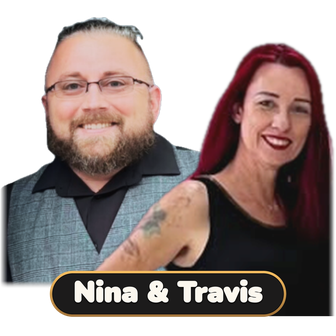
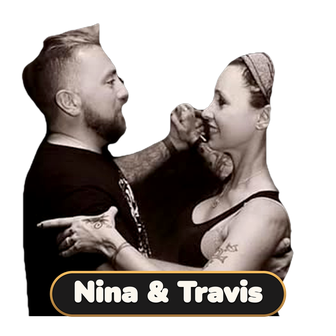
Nina & Travis badge: real couple photo of the two of them together
Replace the two-photo composite with one real photo of Nina and Travis Outlaw
dancing WCS together (studio About Us page, under 'Travis Outlaw'; same file on
Travis's author site). Same 336x336 photo-badge pipeline as Todd & Jamie
(rembg cut-out, 1254 canvas, gold-rim Nunito pill); card:'photo', people:2
(label 'Organizers') unchanged. Cache-buster a59ecadd, stamps re-run.
Sources in gulfcoast/assets/organizer-badges/SOURCES.md.

diff --git a/gulfcoast/index.html b/gulfcoast/index.html
@@ -70,7 +70,7 @@
 <dialog id="simple-lightbox" role="dialog" aria-modal="true" aria-label="Flyer"><button class="lb-close" type="button" aria-label="Close flyer">×</button><img alt=""><div class="lb-bar"><a class="lb-file" target="_blank" rel="noopener noreferrer">Open image file</a><button class="lb-nav" type="button" data-step="-1" aria-label="Previous page">◀</button><span class="lb-count"></span><button class="lb-nav" type="button" data-step="1" aria-label="Next page">▶</button></div></dialog>
 <noscript><p class="noscript">Enable JavaScript for event search and animation, or <a href="https://danceeventviewer.net/dance-event-viewer/">open Dance Event Viewer</a>.</p></noscript>
 <script src="../dance-event-viewer/js/supabase-config.js?v=0254dbd2"></script>
-<script type="module" src="simple-flow.mjs?v=43f47f16"></script>
+<script type="module" src="simple-flow.mjs?v=a3aa4645"></script>
 <script type="module" src="app.js?v=a7e83b4f"></script>
 <script defer src="https://cdn.jsdelivr.net/npm/@supabase/supabase-js@2.112.2/dist/umd/supabase.min.js" integrity="sha384-B2duOBIryCXbX4eDE4BdJwtNkQMRQde3o6IsjfPW28E6aH1CYE96hHeZRG3zY56O" crossorigin="anonymous"></script>
 <script defer src="../dance-event-viewer/js/auth.js?v=e70a7d71"></script>

diff --git a/gulfcoast/assets/organizer-badges/SOURCES.md b/gulfcoast/assets/organizer-badges/SOURCES.md
@@ -1,0 +1,47 @@
+# Organizer badge photo sources
+
+## nina-travis-teacher-avatar.png (Nina & Travis, couple photo)
+
+This badge is made from one real photo of Nina Outlaw and Travis Outlaw dancing West Coast Swing together. It contains no AI-generated, composited, or invented imagery.
+
+**Photo used**
+- https://dancingwithninatravisandandy.com/wp-content/uploads/2025/10/N-and-T-WCS.jpg (526x711 sepia JPEG, no C2PA or AI metadata).
+  - Page: https://dancingwithninatravisandandy.com/about-us/ (the studio for the Foley, AL Tuesday series). The image appears directly under the "Travis Outlaw" heading, with alt text "Dance Instructors". The page says Travis is Nina's husband.
+  - The same bytes are on Travis's author site at https://outlawbooksandbeyond.com/wp-content/uploads/2026/01/N-and-T-WCS.jpg, used on https://outlawbooksandbeyond.com/about-the-author/ with alt "Travis Outlaw".
+
+**Edits**
+- Background removed with rembg (u2netp, CPU).
+- A polygon removed one piece of wall poster that rembg had left above Travis's head. That piece is background, not a person.
+- Mild levels (8–236, gamma 0.92) and a 1.5 px mask smoothing.
+- Placed on the same 1254 px transparent canvas as Todd & Jamie and Gary Jobst: head tops at y≈80, people clipped at the pill bottom (y1180), and a 28 px side fade.
+- Same gold-rim Nunito 1000 name pill.
+- Downscaled with LANCZOS to 336x336 RGBA.
+
+The photo is sepia in the original and was not colorized. Nina's dark ponytail was lost against the dark background in the cut-out, and nothing was painted in to replace it.
+
+**Considered and not used**
+- Previous badge (PR #66): a composite of two separate photos, so it does not show them together.
+  - https://outlawbooksandbeyond.com/wp-content/uploads/2026/01/Travis-Black-BG.png
+  - https://dancingwithninatravisandandy.com/wp-content/uploads/2025/10/Nina-and-Phil.png (Nina with student Phil)
+- Nina with Andy DuPont, not Travis:
+  - https://dancingwithninatravisandandy.com/wp-content/uploads/2025/10/N-and-A-Tango.jpg
+  - https://dancingwithninatravisandandy.com/wp-content/uploads/2025/10/Andy-and-Nina-B-and-W.jpg
+  - https://dancingwithninatravisandandy.com/wp-content/uploads/2025/10/Me-and-Andy-1.png
+  - https://dancingwithninatravisandandy.com/wp-content/uploads/2025/10/Group-Class-N-and-A.png
+- Travis only:
+  - https://dancingwithninatravisandandy.com/wp-content/uploads/2025/10/Travis-and-Student.png
+  - https://outlawbooksandbeyond.com/wp-content/uploads/2026/07/Travis-picture.jpg
+  - https://outlawbooksandbeyond.com/wp-content/uploads/2026/09/Hippie-Fest-image-2.jpg (vendor flyer)
+- Group, class, or student photos with small or unidentified faces:
+  - https://dancingwithninatravisandandy.com/wp-content/uploads/2025/10/Class-Pic.png
+  - https://dancingwithninatravisandandy.com/wp-content/uploads/2025/10/99-Class.png
+  - https://dancingwithninatravisandandy.com/wp-content/uploads/2025/10/B-and-W-Ball.png
+  - https://dancingwithninatravisandandy.com/wp-content/uploads/2025/10/Group-Ballroom-Class.png
+  - https://dancingwithninatravisandandy.com/wp-content/uploads/2025/10/Private-Dance-Lessons-1.png
+  - https://dancingwithninatravisandandy.com/wp-content/uploads/2025/10/Private-Dance-Lessons-A.png
+  - https://dancingwithninatravisandandy.com/wp-content/uploads/2025/10/Private-Dance-Lessons-KC.png
+- The rest of the media libraries contained logos, flyers, and book art:
+  - https://dancingwithninatravisandandy.com/wp-json/wp/v2/media
+  - https://outlawbooksandbeyond.com/wp-json/wp/v2/media
+- Not reachable without a login, so not used: the Facebook group https://www.facebook.com/groups/904772549867983, linked from https://dancingwithninatravisandandy.com/.
+- Web searches for "Nina Outlaw" "Travis Outlaw", WCS competition results, and Instagram/YouTube found no other public photo of the two of them together.
